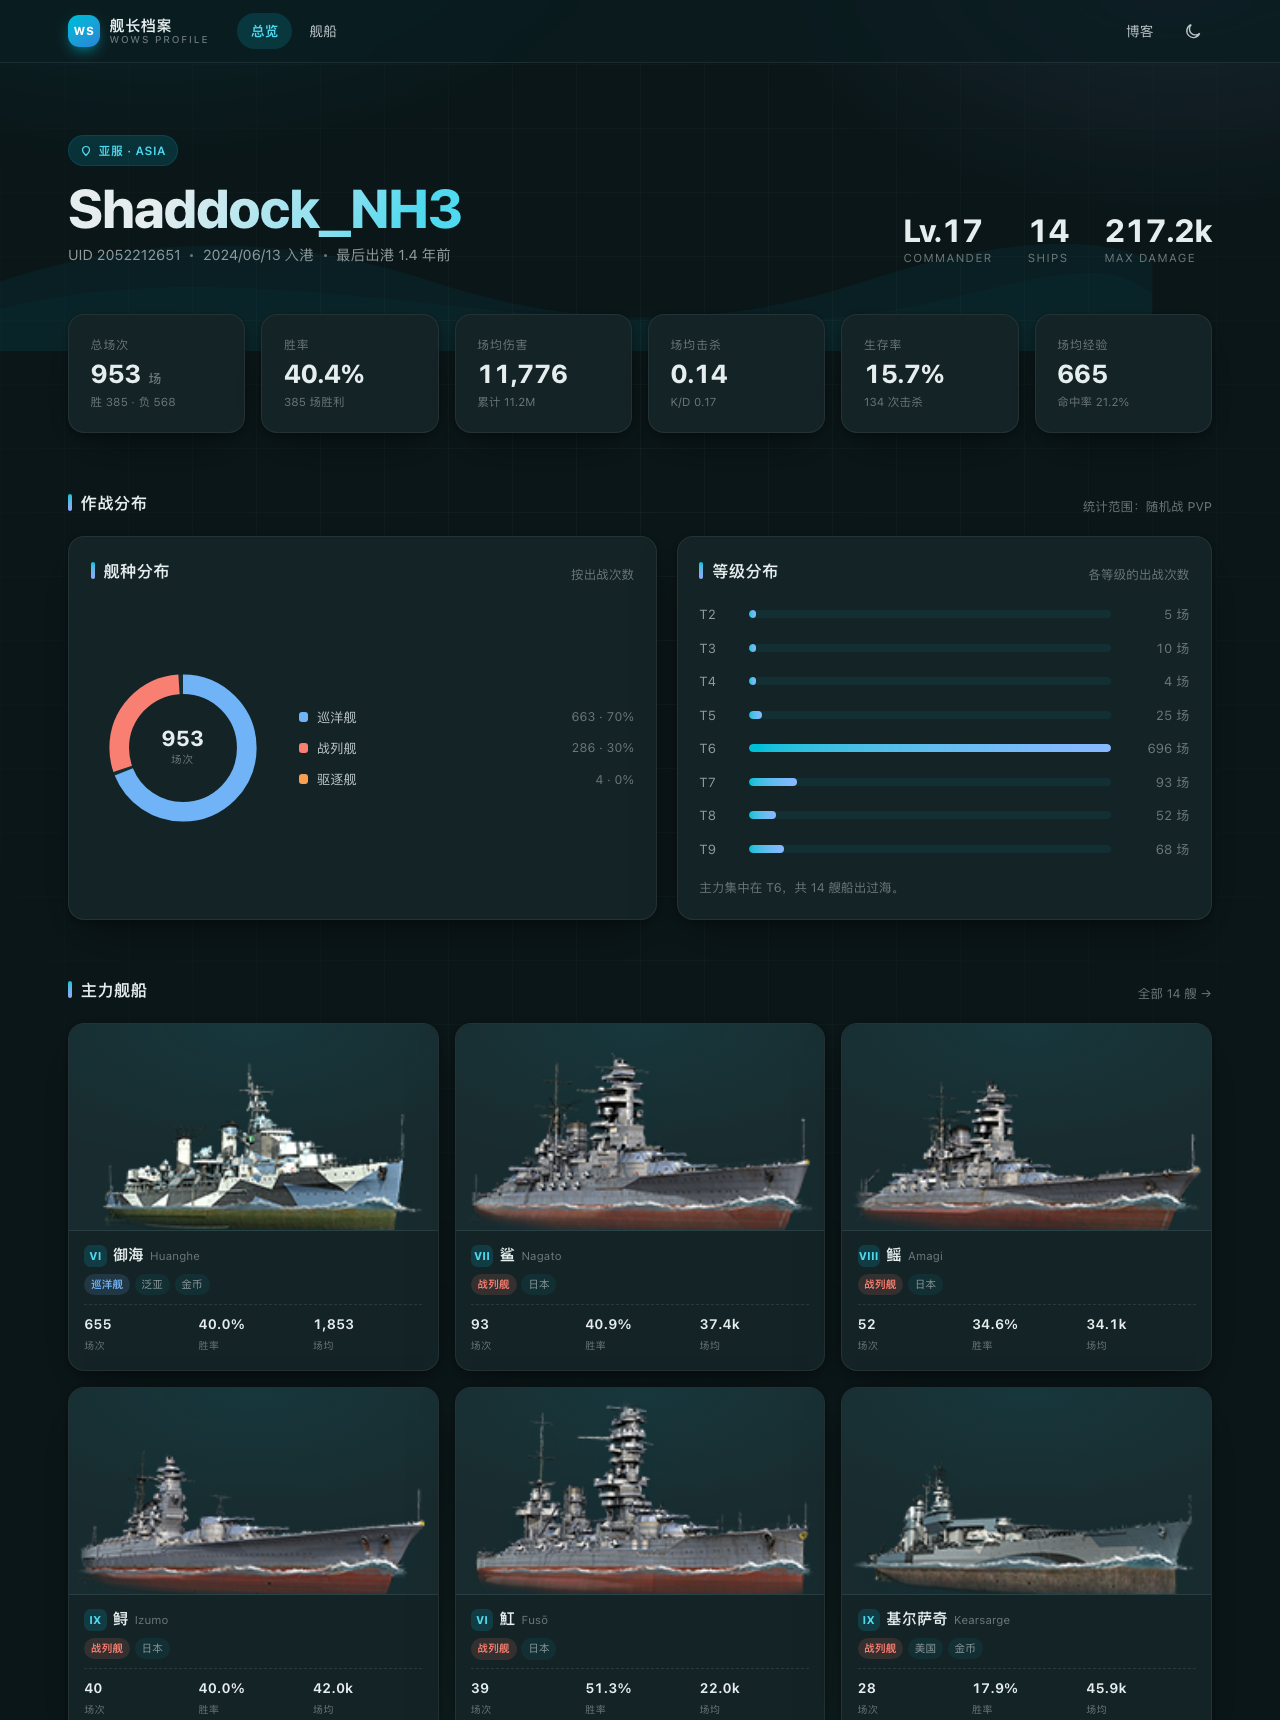
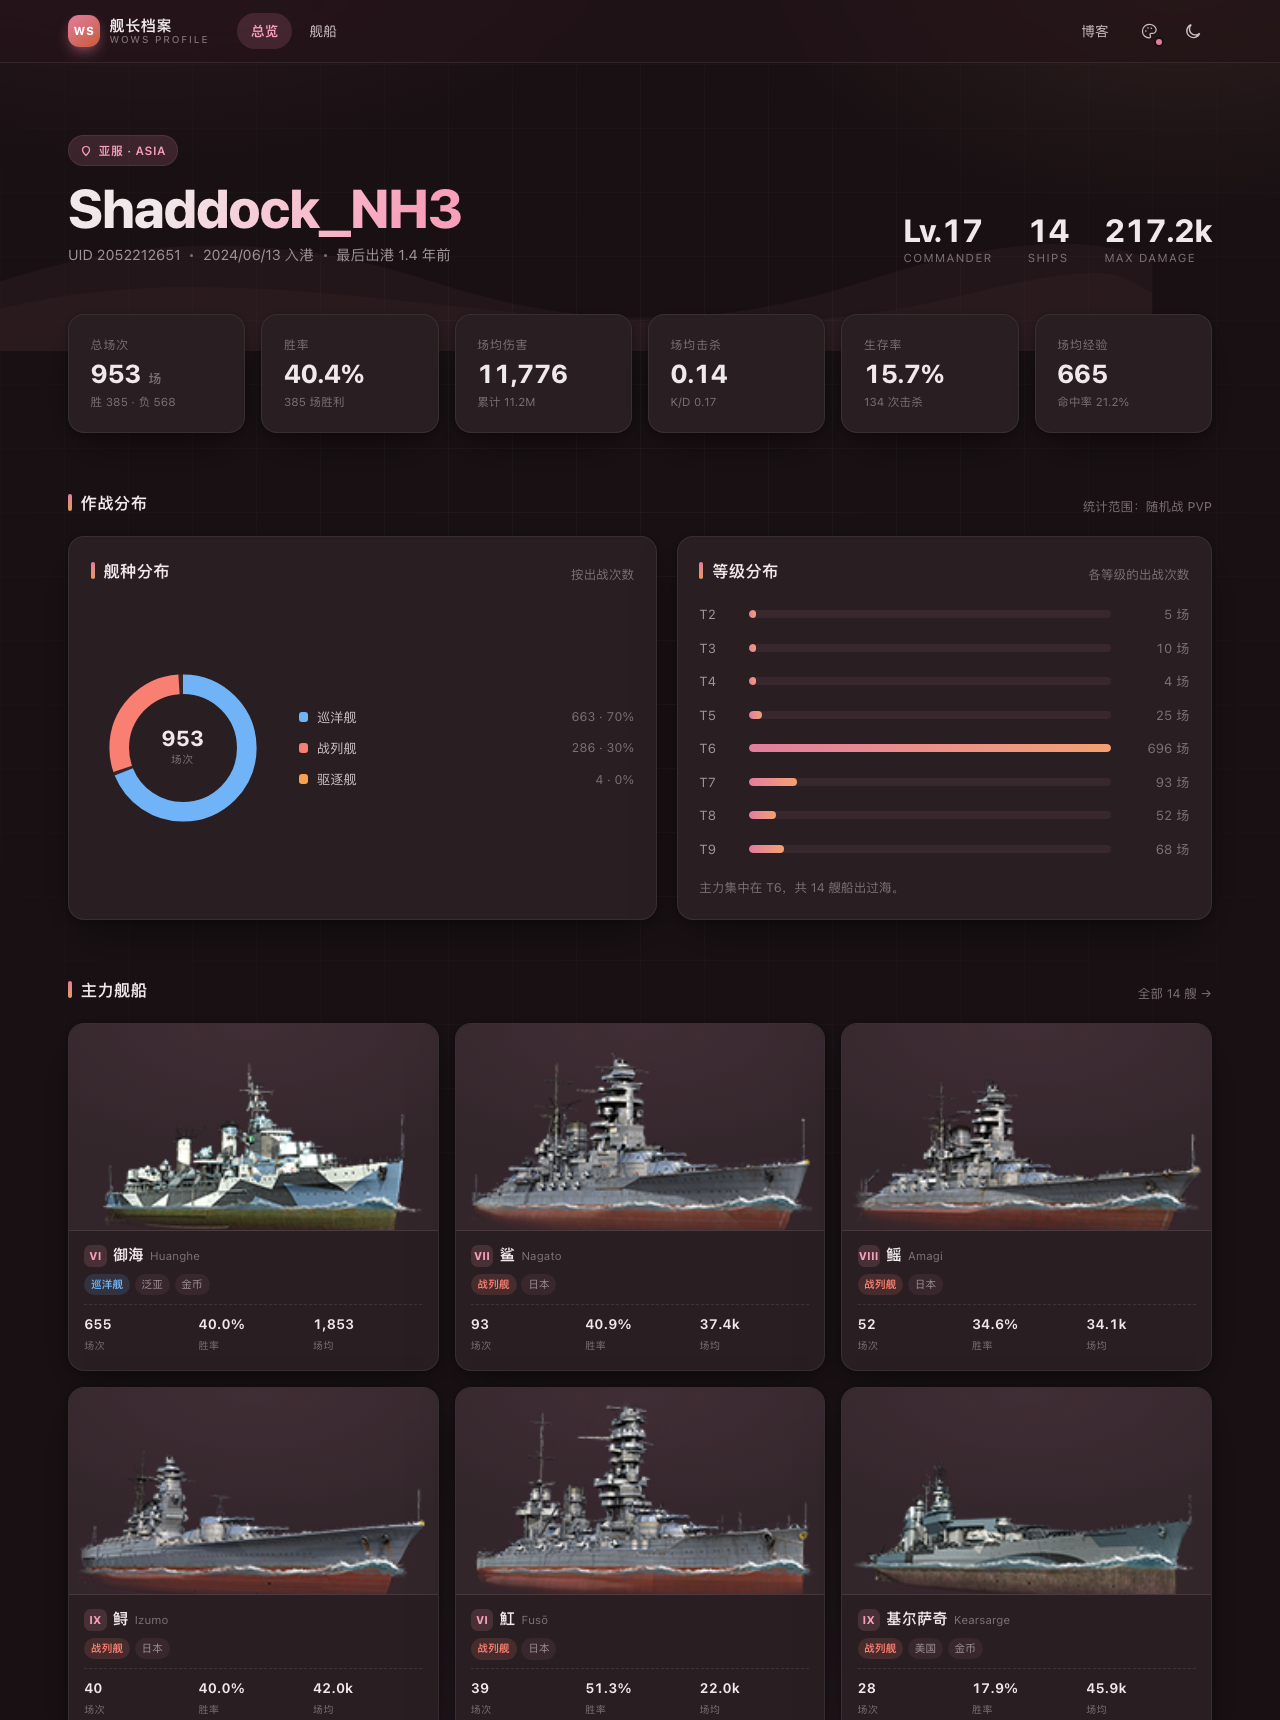
feat: 双配色主题（blog 玫粉 / wows 海军蓝），导航栏一键切换

diff --git a/src/config.ts b/src/config.ts
@@ -3,6 +3,19 @@
  * 改完记得重新跑一次 `pnpm fetch` 更新数据。
  */
 
+/**
+ * 两套配色。
+ * blog —— 跟博客主题色一致（Firefly 的 hue 是 360）
+ * wows —— 海军蓝，更贴近游戏本身的气质
+ * 色相 0-360：0 红、60 黄、150 青绿、210 蓝、265 紫、360 粉
+ */
+export const themes = {
+	blog: { hue: 360, label: "博客" },
+	wows: { hue: 210, label: "海军" },
+} as const;
+
+export type ThemeKey = keyof typeof themes;
+
 export const siteConfig = {
 	/** 页面标题（会显示在标签页与导航栏） */
 	title: "舰长档案",
@@ -13,8 +26,8 @@ export const siteConfig = {
 	/** 博客主站地址，用于导航栏「返回博客」按钮；留空则不显示 */
 	blogUrl: "https://blog.attilio.cc",
 
-	/** 主题色相（0-360）。210 ≈ 海军蓝，360 ≈ 博客的粉色，265 ≈ 紫 */
-	hue: 210,
+	/** 默认配色主题：blog | wows */
+	defaultTheme: "blog" as ThemeKey,
 
 	/** 默认配色模式：light | dark | system */
 	defaultMode: "system" as "light" | "dark" | "system",
@@ -22,11 +35,6 @@ export const siteConfig = {
 	/** 页脚署名 */
 	author: "ShaddockNH3",
 
-	/**
-	 * 可选的「临时查别人」入口。
-	 * 填了 application_id 才会在 /lookup 页面出现查询表单，
-	 * 因为 WG 的接口需要 key，而 key 会暴露在前端 —— 请自行权衡。
-	 */
 	publicAppId: import.meta.env.PUBLIC_WOWS_APP_ID || "",
 };
 

diff --git a/src/styles/global.css b/src/styles/global.css
@@ -340,6 +340,40 @@ main {
 	height: 1.15rem;
 }
 
+/* 配色切换按钮上的小圆点，直接显示当前主题色 */
+.icon-btn-dot {
+	position: relative;
+}
+
+.icon-btn-dot::after {
+	content: "";
+	position: absolute;
+	right: 5px;
+	bottom: 5px;
+	width: 6px;
+	height: 6px;
+	border-radius: 50%;
+	background: var(--primary);
+	box-shadow: 0 0 0 2px var(--page-bg);
+	transition: background-color 0.3s var(--ease);
+}
+
+/* 海军这套把棱角收紧一点，跟游戏 UI 的气质更近 */
+:root[data-theme="wows"] {
+	--radius-large: 0.85rem;
+	--radius-xl: 1.3rem;
+}
+
+/* 博客这套暗色下把底色收得更中性，粉色只留在强调色和光斑上，免得发闷 */
+:root.dark[data-theme="blog"] {
+	--primary: oklch(0.71 0.13 360);
+	--primary-strong: oklch(0.8 0.11 360);
+	--page-bg: oklch(0.185 0.013 355);
+	--page-bg-deep: oklch(0.225 0.016 355);
+	--card-bg: oklch(0.252 0.016 355);
+	--card-bg-soft: oklch(0.285 0.019 355);
+}
+
 :root.dark .icon-sun,
 :root:not(.dark) .icon-moon {
 	display: none;

diff --git a/README.md b/README.md
@@ -8,6 +8,7 @@
 
 - 纯静态：构建期就把数据抓成 JSON，运行时零请求、零 key
 - 无框架运行时：Astro + 手写 CSS，产物只有几十 KB
+- **两套配色**：`blog`（跟博客主题色一致）和 `wows`（海军蓝），导航栏一键切换，会记住选择
 - 深浅色、响应式、可筛选的逐船战绩表
 - 不改动博客本体，可独立部署，也可以挂在 `/wows/` 子路径
 
@@ -97,12 +98,22 @@ WOWS_APP_ID=xxxx WOWS_NICKNAME=凉柚NH3 WOWS_REALM=cn pnpm fetch
 
 | 想改什么 | 改哪里 |
 | --- | --- |
-| 站点标题、主题色相、博客地址 | `src/config.ts` |
+| 站点标题、默认主题、博客地址 | `src/config.ts` |
+| 两套配色的色相 | `src/config.ts` 的 `themes` |
 | 服务器、昵称 | `wows.config.json` |
 | 配色变量、圆角、间距 | `src/styles/global.css` 顶部 `:root` |
 | 指标口径、要展示哪些数据 | `scripts/fetch-wows.mjs` |
 
-主题色相 `hue`：210 是海军蓝，360 是博客默认的粉，265 是紫。
+### 两套配色
+
+| key | 色相 | 说明 |
+| --- | --- | --- |
+| `blog` | 360 | 玫粉，跟博客的 `themeColor.hue` 一致，默认 |
+| `wows` | 210 | 海军蓝，更贴近游戏，圆角也收紧一点 |
+
+导航栏那枚调色盘按钮切换，选完写进 `localStorage`，下次进来还是这套。
+想加第三套就往 `themes` 里加一行，`data-theme` 会自动生成对应的 `--hue`。
+URL 参数也能直接指定：`/?palette=wows`、`/?theme=light`，方便给别人看某个特定状态。
 
 ## 数据说明
 
